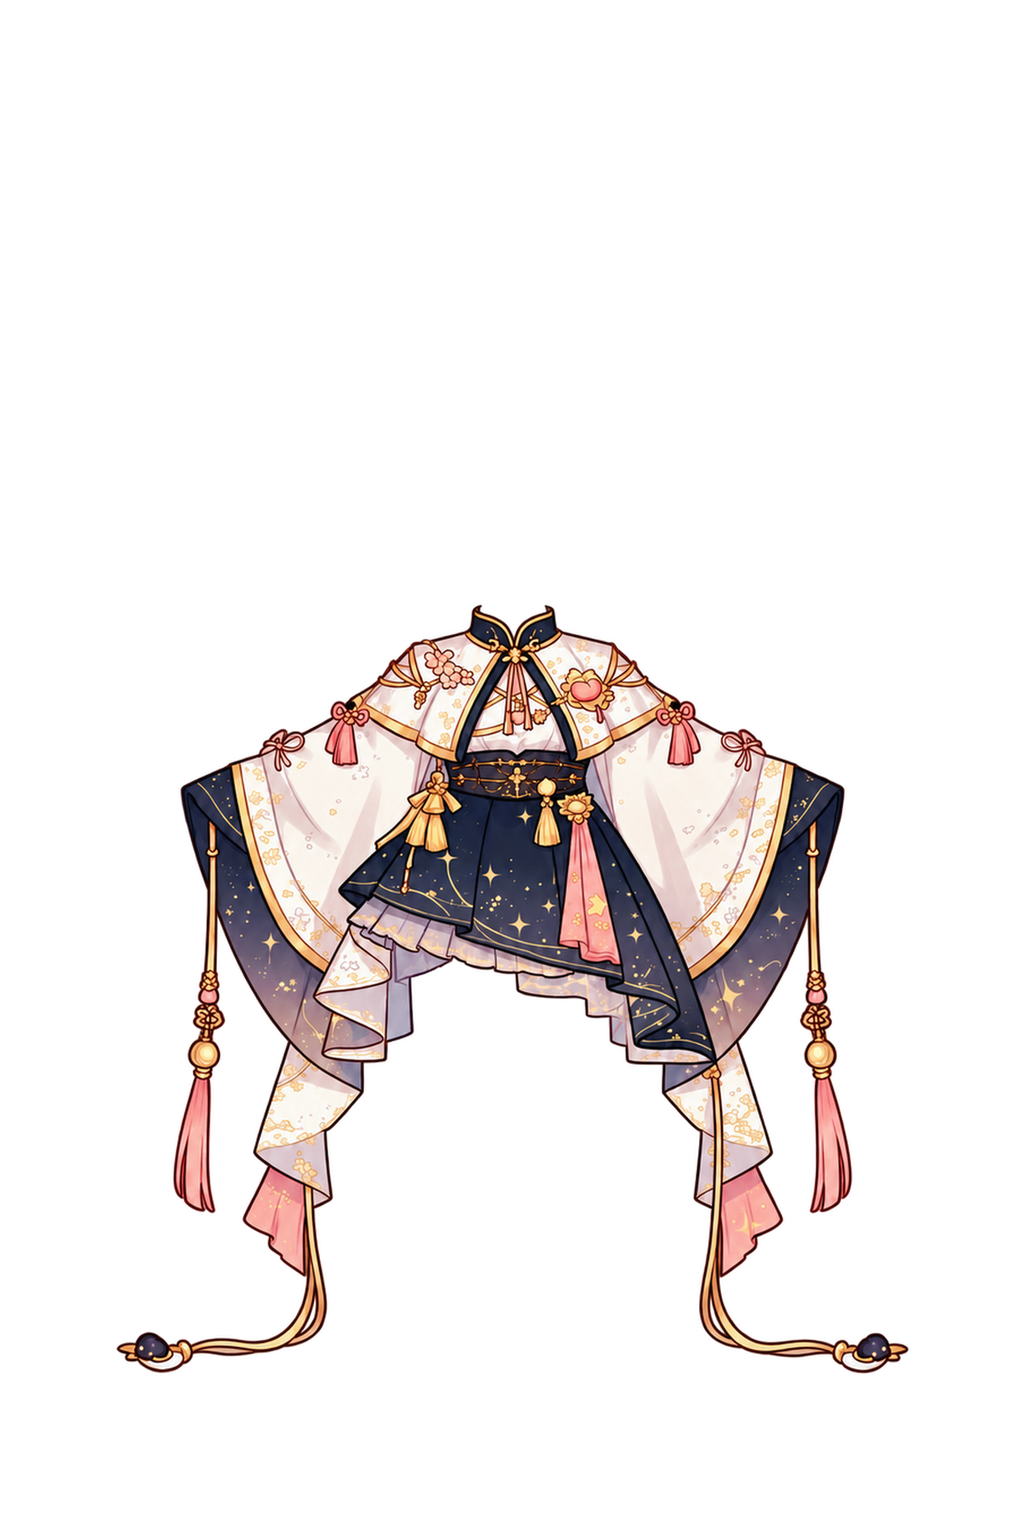
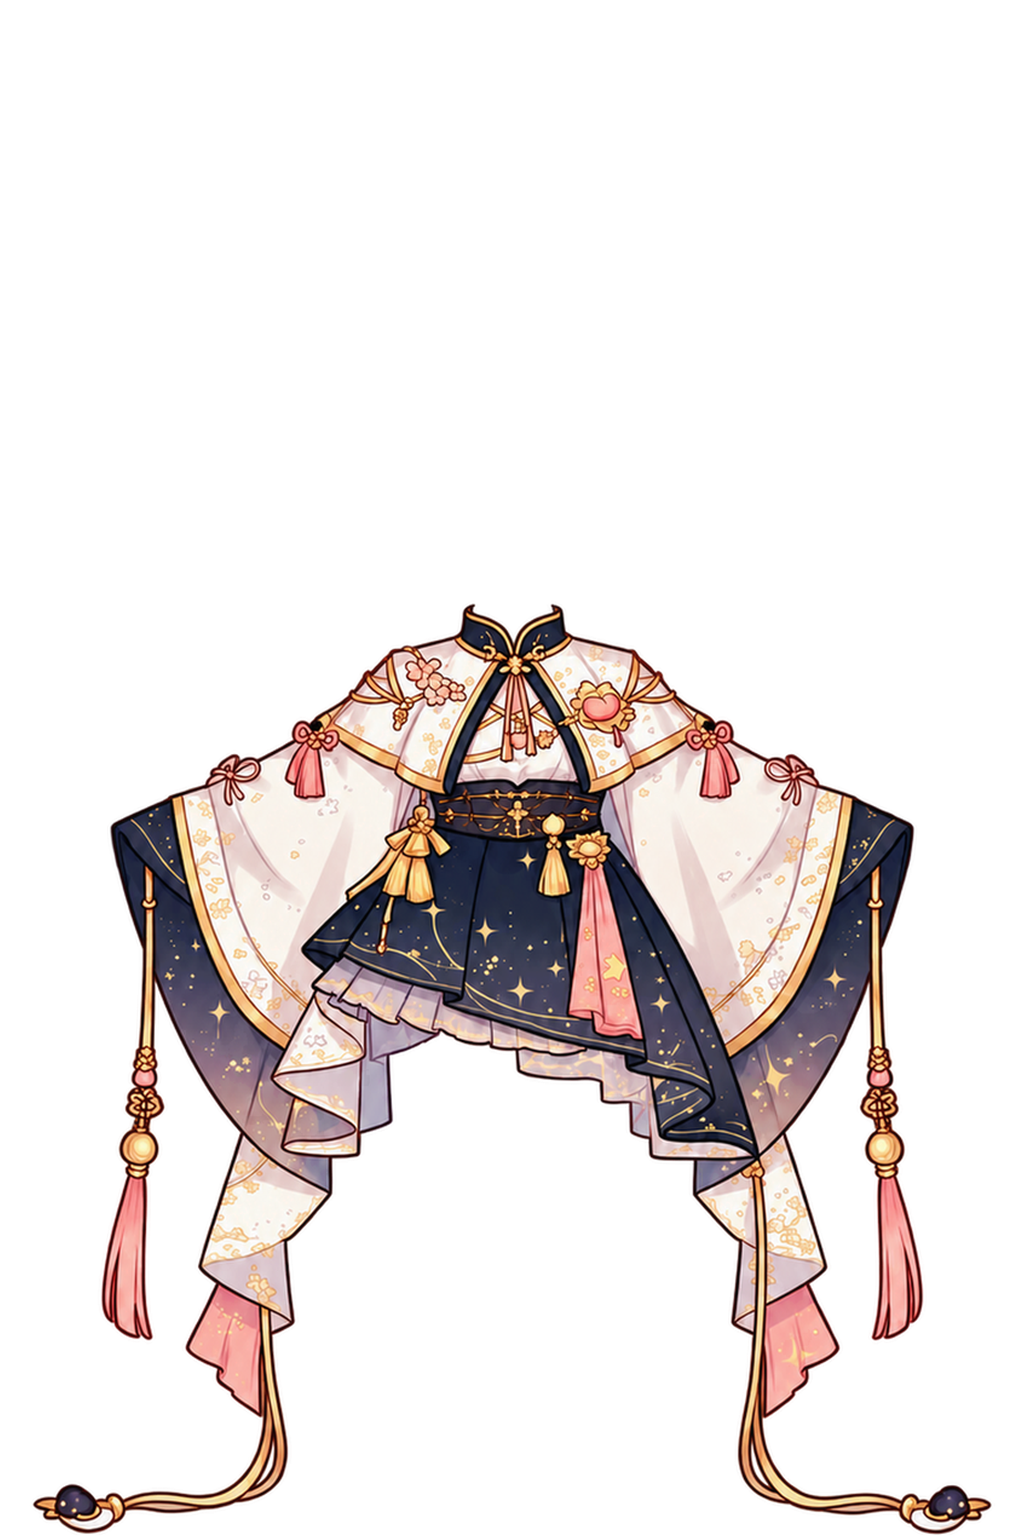
별밤 한복 원피스: 크기 +2, 아래로 10칸을 기본값으로 반영
Claude-Session: https://claude.ai/code/session_01QsJz8svXLJhiXtuEPA1E7w

Changed region(s): [[0.0312, 0.375, 0.9688, 1.0]]

diff --git a/tools-py/fit_costumes.py b/tools-py/fit_costumes.py
@@ -22,6 +22,11 @@ CLOTHES = ROOT / 'assets-src/clothes'
 APPLIED = Path(__file__).with_name('costume_fit_applied.json')
 TARGET_WAIST = 170  # 아바타 허리(약 175) 정도
 MIN_SCALE, MAX_SCALE = 1.0, 1.25  # 작은 옷만 키우되 치마·리본이 화면을 덮을 만큼 커지지는 않게
+# 손으로 맞춘 옷: 앱의 크기 조절(+ 한 번 = 1.1배)과 위치 조절(아래로 한 칸 = 8px)로 정한 값을 이미지에 굽는다.
+# 자동 맞추기는 이 옷을 건드리지 않고, 한 번만 적용한다(적용 여부는 costume_fit_applied.json 의 'manual' 목록).
+MANUAL: dict[str, dict] = {
+    'costume_hanbok_starry': dict(scale=1.1 ** 2, dy=10 * 8, pivot=(512, 989)),  # +2, 아래로 10칸 (옷 영역 중심이 피벗)
+}
 OVERRIDES: dict[str, tuple[int, int]] = {
     'dress_card_red': (760, 165),  # 목 장식이 따로 떨어져 있어서 자동 감지가 안 됨 (소매 사이 몸통 폭)
     # 몸통이 거의 안 보이는 옷은 눈으로 보고 정한 값 (허리 y, 몸통 폭)
@@ -87,14 +92,34 @@ def refit(im: Image.Image, top: int, scale: float) -> Image.Image:
     return out
 
 
+def manual_adjust(im: Image.Image, scale: float, dy: int, pivot: tuple[int, int]) -> Image.Image:
+    """피벗을 고정점으로 scale 배 한 뒤 dy 만큼 아래로 옮긴다 (캔버스 밖은 잘림)."""
+    w, h = im.size
+    big = im.resize((round(w * scale), round(h * scale)), Image.LANCZOS)
+    out = Image.new('RGBA', (w, h), (0, 0, 0, 0))
+    ox, oy = round(pivot[0] - pivot[0] * scale), round(pivot[1] - pivot[1] * scale + dy)
+    out.alpha_composite(big, (ox, oy)) if ox >= 0 and oy >= 0 else out.alpha_composite(
+        big.crop((max(0, -ox), max(0, -oy), max(0, -ox) + w, max(0, -oy) + h)), (max(0, ox), max(0, oy))
+    )
+    return out
+
+
 def main():
     items = json.loads((ROOT / 'src/data/items.json').read_text())
     ids = [i['id'] for i in items if i['category'] == 'costume']
     applied = json.loads(APPLIED.read_text()) if APPLIED.exists() else {}
+    manual_done = set(applied.pop('manual', []))
     out = {}
     for oid in ids:
         path = CLOTHES / f'{oid}.png'
         im = Image.open(path).convert('RGBA')
+        if oid in MANUAL:
+            state = '이미 적용' if oid in manual_done else ('이번에 적용' if '--apply' in sys.argv else '적용 예정')
+            print(f"{oid:26} 수동 값 {MANUAL[oid]['scale']:.2f}배, 아래로 {MANUAL[oid]['dy']}px ({state})")
+            if '--apply' in sys.argv and oid not in manual_done:
+                manual_adjust(im, **MANUAL[oid]).save(path)
+                manual_done.add(oid)
+            continue
         prev = applied.get(oid, {'scale': 1.0})
         prev_s = prev['scale']
         r = analyse(im, oid)
@@ -122,6 +147,7 @@ def main():
             if total > 1.0 or oid in applied:
                 out[oid] = {'scale': total, 'waist': base_w}
     if '--apply' in sys.argv:
+        out['manual'] = sorted(manual_done)
         APPLIED.write_text(json.dumps(out, indent=2, ensure_ascii=False) + '\n')
 
 
